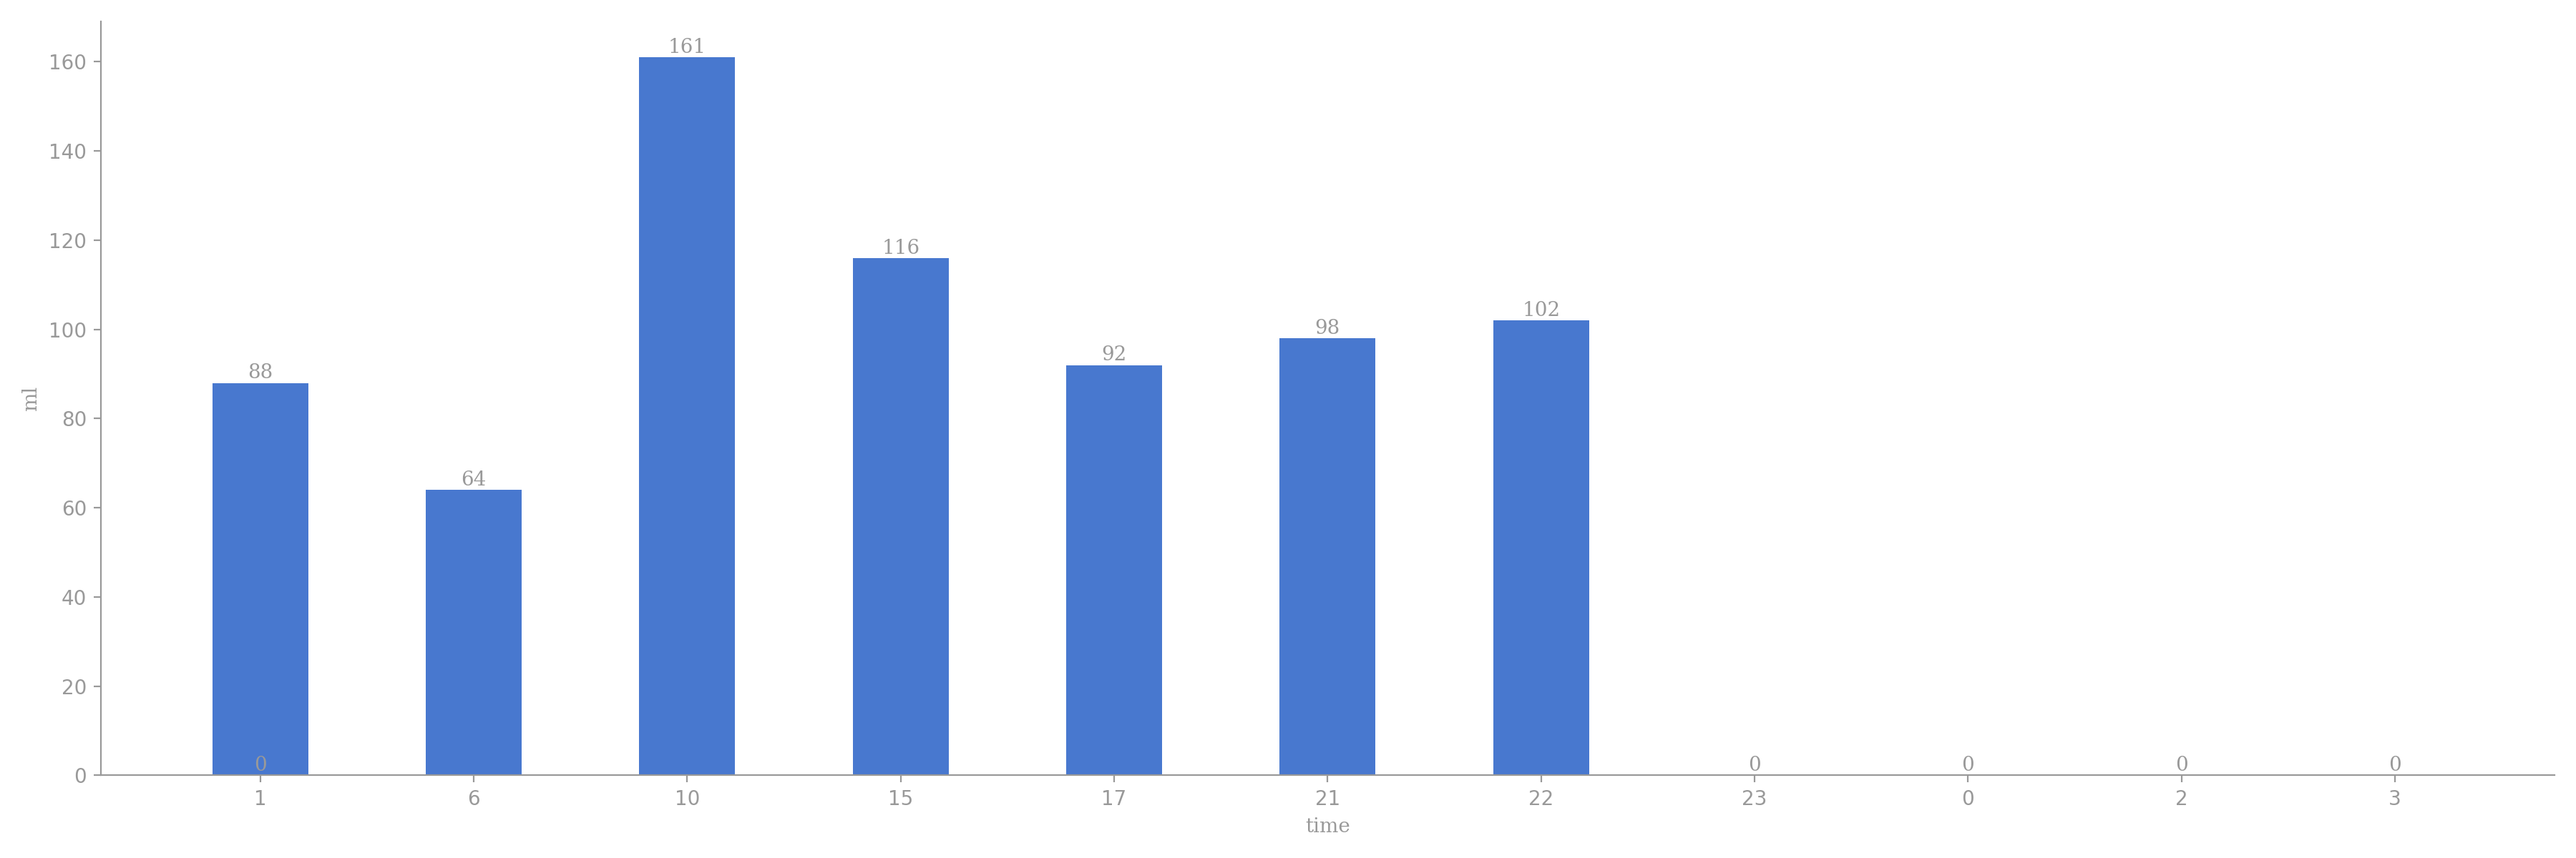
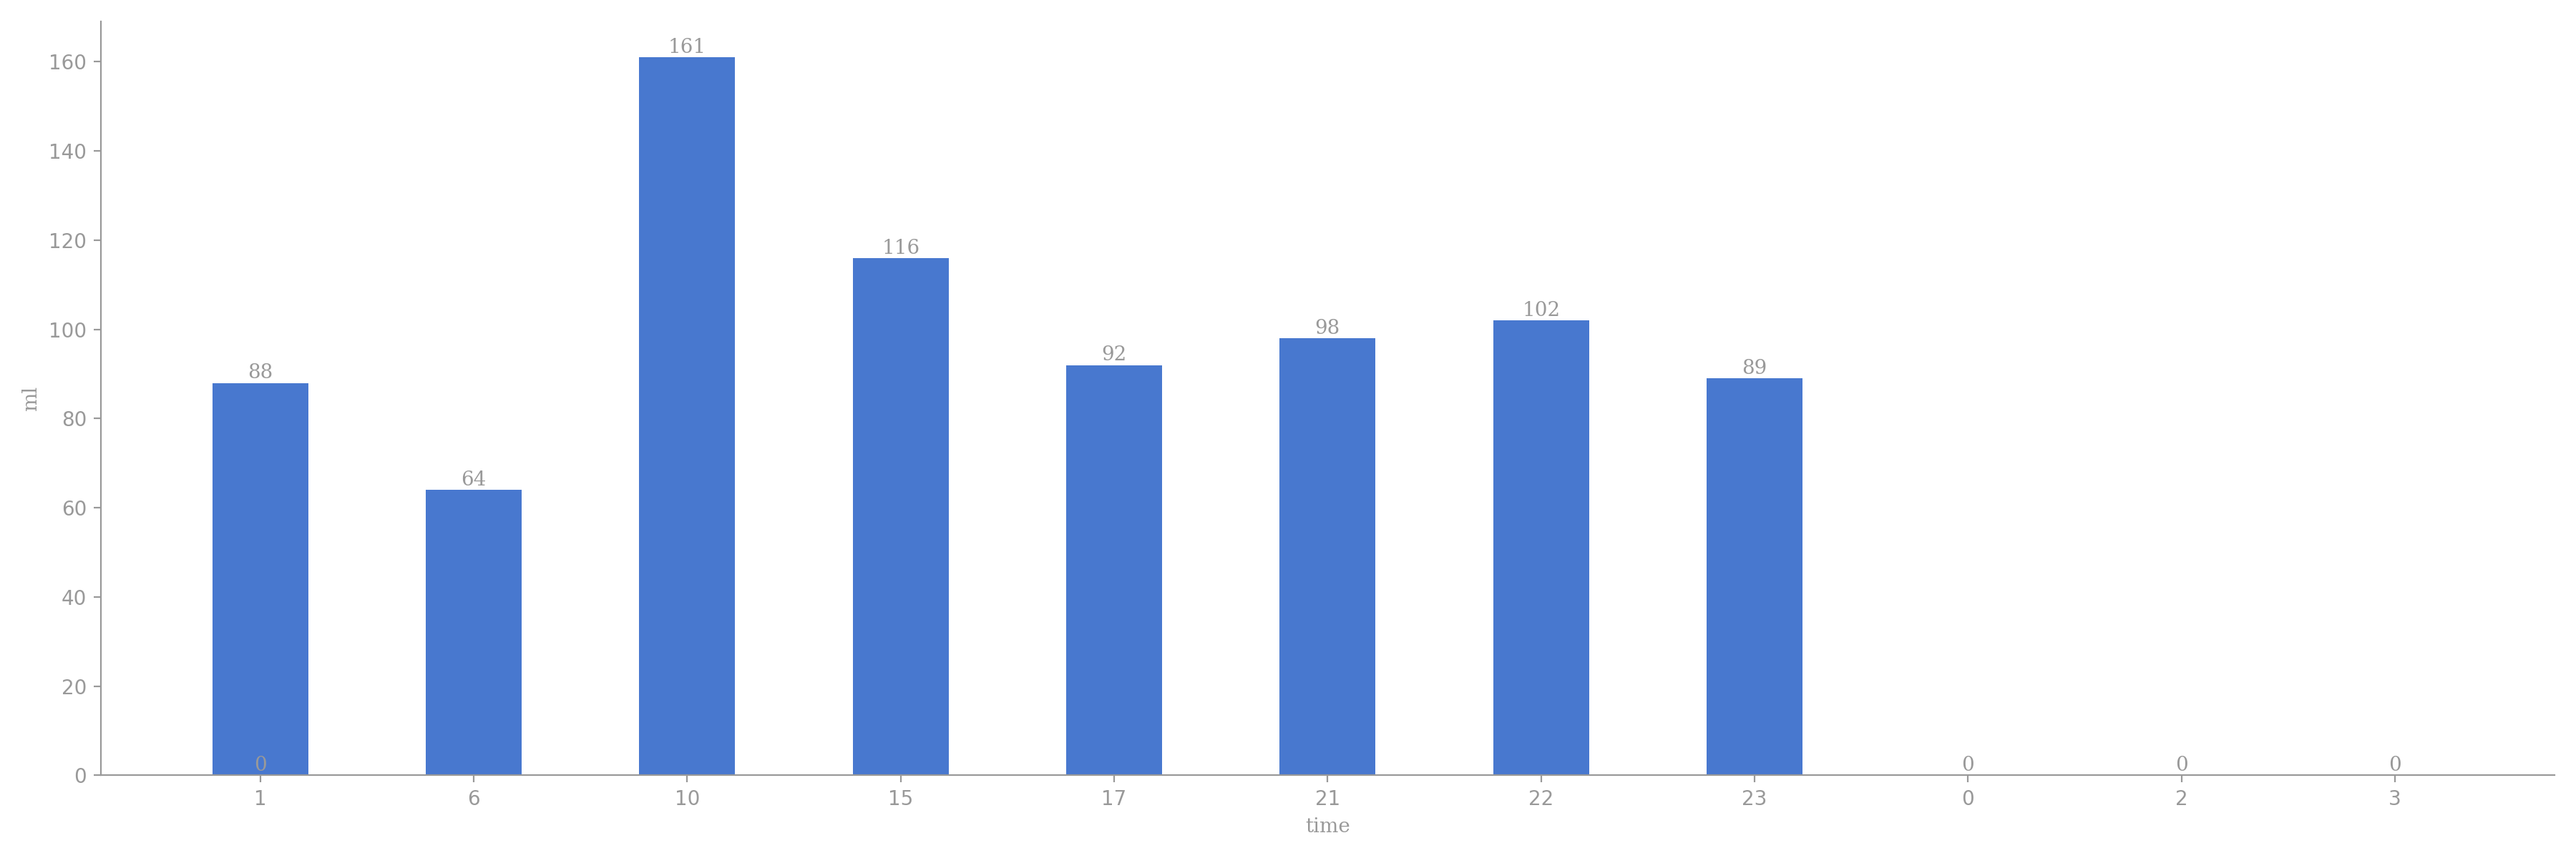
crontab auto git

Changed region(s): [[0.6533, 0.4317, 0.7156, 0.925]]

diff --git a/README.md b/README.md
@@ -5,12 +5,12 @@
 
 | 今日总饮水量 | 每小时平均饮水量 |
 | :----: | :----: |
-| 721 | 103 |
+| 810 | 101 |
 </div>
 
-| 日期 | 01:35:29 | 06:37:15 | 10:16:04 | 10:18:19 | 15:30:27 | 17:38:42 | 21:20:05 | 22:36:36 |
-| :----: | :----: | :----: | :----: | :----: | :----: | :----: | :----: | :----: |
-| 2026-01-01 | 88 | 64 | 84 | 77 | 116 | 92 | 98 | 102 |
+| 日期 | 01:35:29 | 06:37:15 | 10:16:04 | 10:18:19 | 15:30:27 | 17:38:42 | 21:20:05 | 22:36:36 | 23:18:34 |
+| :----: | :----: | :----: | :----: | :----: | :----: | :----: | :----: | :----: | :----: |
+| 2026-01-01 | 88 | 64 | 84 | 77 | 116 | 92 | 98 | 102 | 89 |
 
 # 近30日饮水数据
 
